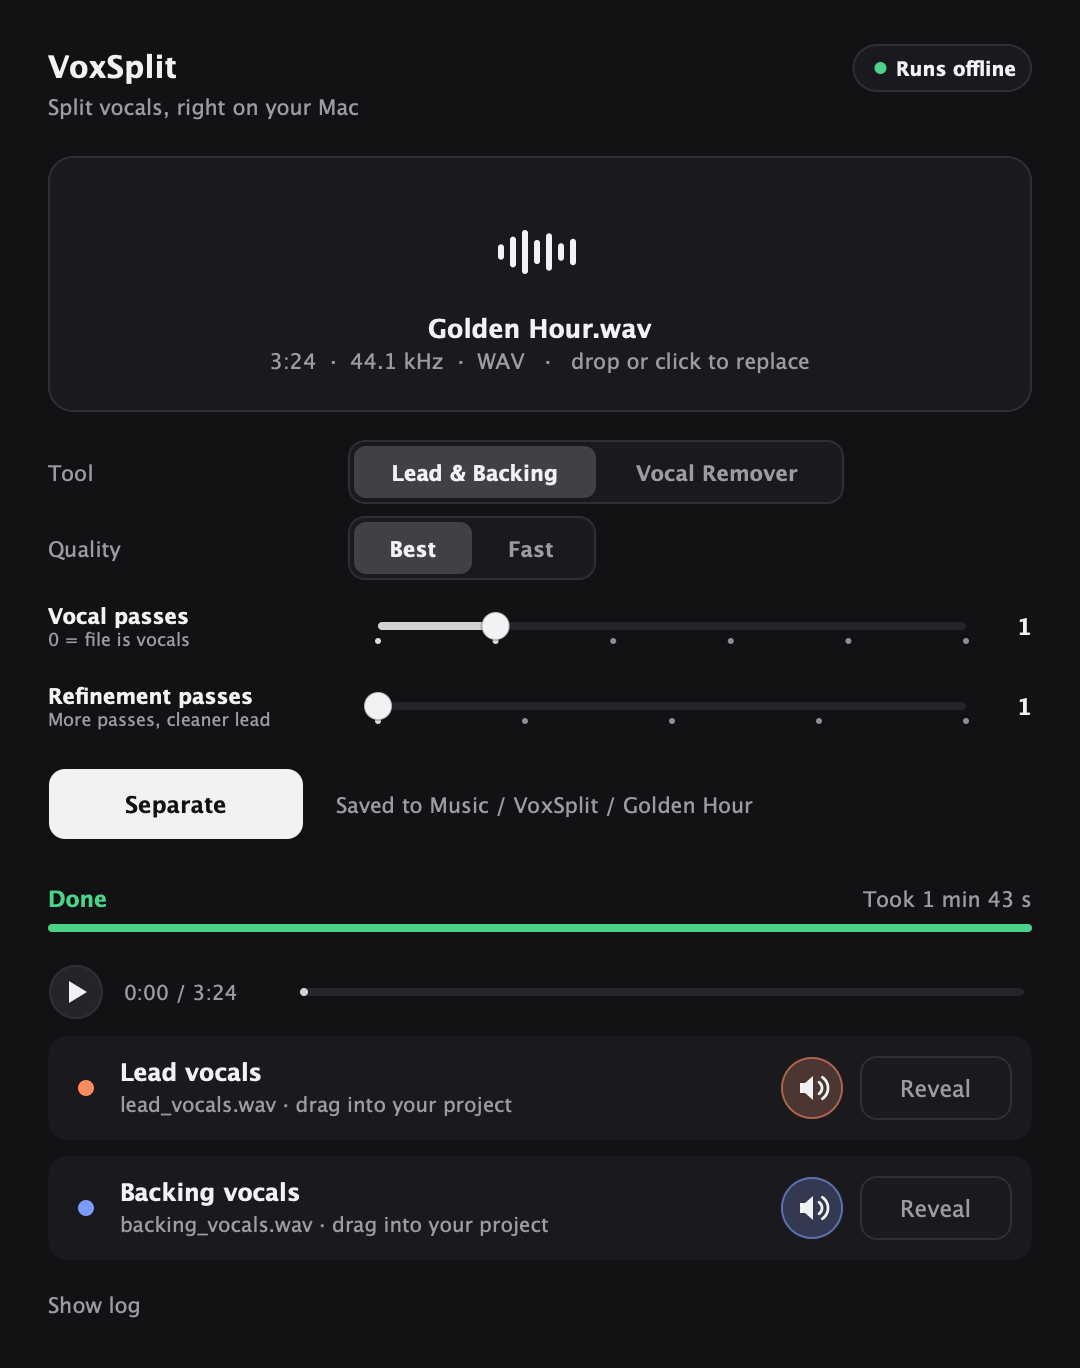
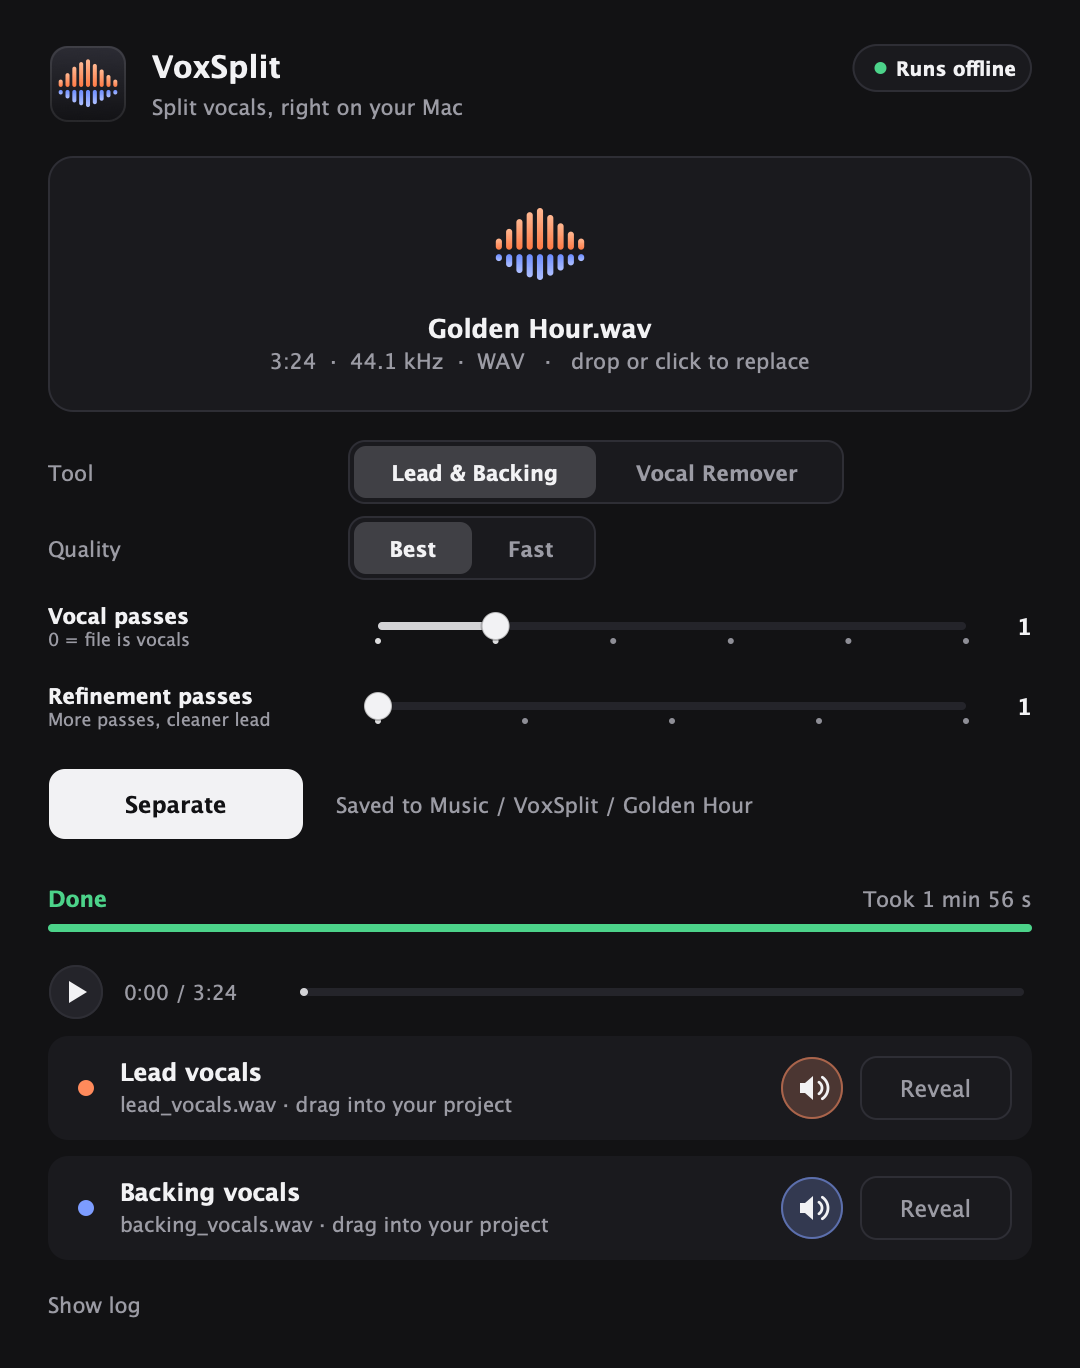
feat(site): move to voxsplit.jeffrey.build; old host redirects; 0.1.3 (ai-agents-bgp.28)
- Worker custom domain voxsplit.jeffrey.build (jeffrey.build is on Cloudflare
  now). voxsplit.triplejmusic.art stays attached only to 301 every path to the
  same path on the new host, so copied curl commands keep working; the Worker
  now runs first on every path for that.
- install.sh --cli finds the engine in the core part (fixes 'the package is
  missing the engine' on 0.1.1-0.1.2); uninstall also clears user plugins.
- New product shots and share image with the logo header. Domain updated in
  the app/plugin 'not installed' messages, README, installer and release.sh.

Changed region(s): [[0.0306, 0.0307, 0.4278, 0.0921], [0.4583, 0.1535, 0.55, 0.2149], [0.9167, 0.6447, 0.9472, 0.6754]]

diff --git a/site/public/index.html b/site/public/index.html
@@ -5,17 +5,17 @@
   <meta name="viewport" content="width=device-width, initial-scale=1">
   <title>VoxSplit · Grab the lead, keep the harmonies</title>
   <meta name="description" content="VoxSplit pulls the lead vocal and the backing vocals out of any song, so you can flip hooks, build bootlegs and make mashups that blend. Free for Mac, works in FL Studio, runs offline.">
-  <link rel="canonical" href="https://voxsplit.triplejmusic.art/">
+  <link rel="canonical" href="https://voxsplit.jeffrey.build/">
   <meta name="theme-color" content="#0e0e11">
   <meta name="color-scheme" content="dark">
   <link rel="icon" href="/mark.svg" type="image/svg+xml">
   <link rel="icon" href="/favicon-32.png" sizes="32x32" type="image/png">
   <link rel="apple-touch-icon" href="/apple-touch-icon.png">
   <meta property="og:type" content="website">
-  <meta property="og:url" content="https://voxsplit.triplejmusic.art/">
+  <meta property="og:url" content="https://voxsplit.jeffrey.build/">
   <meta property="og:title" content="VoxSplit · Grab the lead, keep the harmonies">
   <meta property="og:description" content="Split any song's lead vocal from its backing vocals. Free for Mac, works in FL Studio, runs offline.">
-  <meta property="og:image" content="https://voxsplit.triplejmusic.art/og.png">
+  <meta property="og:image" content="https://voxsplit.jeffrey.build/og.png">
   <meta property="og:image:width" content="1200">
   <meta property="og:image:height" content="630">
   <meta name="twitter:card" content="summary_large_image">
@@ -27,8 +27,8 @@
     "description": "Splits a song's lead vocal from its backing vocals, or the vocals from the instrumental, on your Mac.",
     "applicationCategory": "MultimediaApplication",
     "operatingSystem": "macOS 14 or later (Apple silicon)",
-    "softwareVersion": "0.1.2",
-    "downloadUrl": "https://voxsplit.triplejmusic.art/download/latest",
+    "softwareVersion": "0.1.3",
+    "downloadUrl": "https://voxsplit.jeffrey.build/download/latest",
     "offers": { "@type": "Offer", "price": "0", "priceCurrency": "USD" },
     "author": { "@type": "Person", "name": "Triple J", "url": "https://triplejmusic.art" }
   }
@@ -63,7 +63,7 @@
         <h1 class="enter">Grab the lead.<br><span class="grad">Keep the harmonies.</span></h1>
         <p class="lede enter">VoxSplit pulls the lead vocal and the backing vocals out of any song, so you can flip hooks, build bootlegs and make mashups that actually blend. It all happens on your Mac, so your tracks never leave it.</p>
         <div class="cta enter">
-          <a class="button primary big" href="/download/VoxSplit-0.1.2.pkg" data-release-href>
+          <a class="button primary big" href="/download/VoxSplit-0.1.3.pkg" data-release-href>
             <svg viewBox="0 0 20 20" width="20" height="20" aria-hidden="true"><path d="M10 3v9m0 0l-3.5-3.5M10 12l3.5-3.5M4 15.5h12" fill="none" stroke="currentColor" stroke-width="2" stroke-linecap="round" stroke-linejoin="round"/></svg>
             Download free
           </a>
@@ -153,9 +153,9 @@
       <div class="get-grid">
         <article class="card download-card">
           <h3>Download the installer</h3>
-          <a class="button primary big" href="/download/VoxSplit-0.1.2.pkg" data-release-href>
+          <a class="button primary big" href="/download/VoxSplit-0.1.3.pkg" data-release-href>
             <svg viewBox="0 0 20 20" width="20" height="20" aria-hidden="true"><path d="M10 3v9m0 0l-3.5-3.5M10 12l3.5-3.5M4 15.5h12" fill="none" stroke="currentColor" stroke-width="2" stroke-linecap="round" stroke-linejoin="round"/></svg>
-            Download VoxSplit <span class="dim" data-release="version">0.1.2</span>
+            Download VoxSplit <span class="dim" data-release="version">0.1.3</span>
           </a>
           <ol class="steps">
             <li>Open the download. The first time, macOS asks whether you trust VoxSplit: open <b>System Settings → Privacy &amp; Security</b> and click <b>Open Anyway</b>.</li>
@@ -169,13 +169,13 @@
           <p class="label">Everything, FL Studio plugin included (asks for your password)</p>
           <div class="command" data-copy-root>
             <span class="prompt" aria-hidden="true">$</span>
-            <code data-copy-text>curl -fsSL https://voxsplit.triplejmusic.art/install.sh | bash</code>
+            <code data-copy-text>curl -fsSL https://voxsplit.jeffrey.build/install.sh | bash</code>
             <button class="copy" type="button" aria-label="Copy"><span class="copy-icons" aria-hidden="true"><svg class="i-copy" viewBox="0 0 16 16" width="15" height="15"><rect x="5" y="5" width="9" height="9" rx="2" fill="none" stroke="currentColor" stroke-width="1.5"/><path d="M11 5V3.5A1.5 1.5 0 009.5 2h-6A1.5 1.5 0 002 3.5v6A1.5 1.5 0 003.5 11H5" fill="none" stroke="currentColor" stroke-width="1.5"/></svg><svg class="i-check" viewBox="0 0 16 16" width="15" height="15"><path d="M3 8.5l3.2 3L13 4.5" fill="none" stroke="currentColor" stroke-width="1.8" stroke-linecap="round" stroke-linejoin="round"/></svg></span></button>
           </div>
           <p class="label">Just the Terminal command (no password)</p>
           <div class="command" data-copy-root>
             <span class="prompt" aria-hidden="true">$</span>
-            <code data-copy-text>curl -fsSL https://voxsplit.triplejmusic.art/install.sh | bash -s -- --cli</code>
+            <code data-copy-text>curl -fsSL https://voxsplit.jeffrey.build/install.sh | bash -s -- --cli</code>
             <button class="copy" type="button" aria-label="Copy"><span class="copy-icons" aria-hidden="true"><svg class="i-copy" viewBox="0 0 16 16" width="15" height="15"><rect x="5" y="5" width="9" height="9" rx="2" fill="none" stroke="currentColor" stroke-width="1.5"/><path d="M11 5V3.5A1.5 1.5 0 009.5 2h-6A1.5 1.5 0 002 3.5v6A1.5 1.5 0 003.5 11H5" fill="none" stroke="currentColor" stroke-width="1.5"/></svg><svg class="i-check" viewBox="0 0 16 16" width="15" height="15"><path d="M3 8.5l3.2 3L13 4.5" fill="none" stroke="currentColor" stroke-width="1.8" stroke-linecap="round" stroke-linejoin="round"/></svg></span></button>
           </div>
         </article>
@@ -216,7 +216,7 @@
         <summary>How do I uninstall it?</summary>
         <p>Paste this into Terminal. The songs you split stay in your Music folder.</p>
         <div class="command small" data-copy-root>
-          <code data-copy-text>curl -fsSL https://voxsplit.triplejmusic.art/install.sh | bash -s -- --uninstall</code>
+          <code data-copy-text>curl -fsSL https://voxsplit.jeffrey.build/install.sh | bash -s -- --uninstall</code>
           <button class="copy" type="button" aria-label="Copy the uninstall command"><span class="copy-icons" aria-hidden="true"><svg class="i-copy" viewBox="0 0 16 16" width="15" height="15"><rect x="5" y="5" width="9" height="9" rx="2" fill="none" stroke="currentColor" stroke-width="1.5"/><path d="M11 5V3.5A1.5 1.5 0 009.5 2h-6A1.5 1.5 0 002 3.5v6A1.5 1.5 0 003.5 11H5" fill="none" stroke="currentColor" stroke-width="1.5"/></svg><svg class="i-check" viewBox="0 0 16 16" width="15" height="15"><path d="M3 8.5l3.2 3L13 4.5" fill="none" stroke="currentColor" stroke-width="1.8" stroke-linecap="round" stroke-linejoin="round"/></svg></span></button>
         </div>
       </details>
@@ -224,7 +224,7 @@
   </main>
 
   <footer class="footer">
-    <a class="brand small" href="/"><img src="/mark.svg" width="22" height="22" alt=""><span>VoxSplit <span data-release="version">0.1.2</span></span></a>
+    <a class="brand small" href="/"><img src="/mark.svg" width="22" height="22" alt=""><span>VoxSplit <span data-release="version">0.1.3</span></span></a>
     <p>Made by <a href="https://triplejmusic.art">Triple J</a> · <a href="https://github.com/BadMask121/voxsplit">GitHub</a> · <a href="/download/latest.sha256">Checksum</a></p>
   </footer>
 

diff --git a/site/test/worker.test.js b/site/test/worker.test.js
@@ -2,16 +2,16 @@ import assert from "node:assert/strict";
 import { readFile } from "node:fs/promises";
 import { test } from "node:test";
 
-import { fillScript, megabytes, pkgPath, publicOrigin, rangeOf } from "../src/worker.js";
+import { fillScript, megabytes, movedTo, pkgPath, publicOrigin, rangeOf } from "../src/worker.js";
 
 const release = { version: "1.2.3", file: "VoxSplit-1.2.3.pkg", sha256: "ab".repeat(32), bytes: 320_955_082, date: "2026-10-28" };
 
 test("install script gets the release filled in", async () => {
   const template = await readFile(new URL("../public/install.template.sh", import.meta.url), "utf8");
-  const script = fillScript(template, "https://voxsplit.triplejmusic.art", release);
+  const script = fillScript(template, "https://voxsplit.jeffrey.build", release);
   assert.ok(!script.includes("__"), "no placeholders left");
   assert.match(script, /local version="1\.2\.3"/);
-  assert.match(script, /local url="https:\/\/voxsplit\.triplejmusic\.art\/download\/VoxSplit-1\.2\.3\.pkg"/);
+  assert.match(script, /local url="https:\/\/voxsplit\.jeffrey\.build\/download\/VoxSplit-1\.2\.3\.pkg"/);
   assert.match(script, new RegExp(`local sha256="${"ab".repeat(32)}"`));
   assert.match(script, /local size="321 MB"/);
 });
@@ -29,7 +29,13 @@ test("R2 ranges normalise to offset and length", () => {
 });
 
 test("download links are https outside local dev", () => {
-  assert.equal(publicOrigin(new URL("http://voxsplit.triplejmusic.art/install.sh")), "https://voxsplit.triplejmusic.art");
+  assert.equal(publicOrigin(new URL("http://voxsplit.jeffrey.build/install.sh")), "https://voxsplit.jeffrey.build");
   assert.equal(publicOrigin(new URL("http://localhost:8799/install.sh")), "http://localhost:8799");
 });
 
+
+test("the old host redirects to the same path on voxsplit.jeffrey.build", () => {
+  assert.equal(movedTo(new URL("https://voxsplit.triplejmusic.art/install.sh")), "https://voxsplit.jeffrey.build/install.sh");
+  assert.equal(movedTo(new URL("https://voxsplit.triplejmusic.art/download/latest?x=1")), "https://voxsplit.jeffrey.build/download/latest?x=1");
+  assert.equal(movedTo(new URL("https://voxsplit.jeffrey.build/")), null);
+});

diff --git a/site/src/worker.js b/site/src/worker.js
@@ -1,13 +1,27 @@
-// voxsplit.triplejmusic.art: fills the current release into the page and the
-// install script, and serves installers from R2 (with resumable range requests).
+// voxsplit.jeffrey.build: fills the current release into the page and the install
+// script, serves installers from R2 (with resumable range requests), and redirects
+// the site's first home, voxsplit.triplejmusic.art.
 import release from "../release.json" with { type: "json" };
 
 export const pkgPath = (r = release) => `/download/${r.file}`;
 export const megabytes = (bytes) => `${Math.round(bytes / 1_000_000)} MB`;
 
+/** The site moved here from voxsplit.triplejmusic.art, which now redirects. */
+export const HOME = "voxsplit.jeffrey.build";
+
+/** Old-host URLs go to the same path on the new host (curl -L follows it, so copied
+    install commands keep working). */
+export function movedTo(url) {
+  return url.hostname === "voxsplit.triplejmusic.art" ? `https://${HOME}${url.pathname}${url.search}` : null;
+}
+
 export default {
   async fetch(request, env) {
     const url = new URL(request.url);
+    const moved = movedTo(url);
+    if (moved) {
+      return Response.redirect(moved, 301);
+    }
     const { pathname } = url;
 
     if (pathname === "/download/latest") {

diff --git a/macos/Sources/VoxSplit/ProcessManager.swift b/macos/Sources/VoxSplit/ProcessManager.swift
@@ -161,7 +161,7 @@ final class ProcessManager {
     func start() {
         guard let input, !phase.isActive else { return }
         guard let location = EngineLocator.locate() else {
-            phase = .failed("VoxSplit's engine isn't installed. Reinstall VoxSplit from voxsplit.triplejmusic.art.")
+            phase = .failed("VoxSplit's engine isn't installed. Reinstall VoxSplit from voxsplit.jeffrey.build.")
             return
         }
 

diff --git a/plugin/Source/EngineLocator.cpp b/plugin/Source/EngineLocator.cpp
@@ -55,11 +55,11 @@ EngineLocation locateEngine()
             if (! c.modelsDir.getChildFile (juce::String (name) + ".onnx").existsAsFile()
                 || ! c.modelsDir.getChildFile (juce::String (name) + ".json").existsAsFile())
                 loc.problem = "VoxSplit's model files are missing from " + c.modelsDir.getFullPathName()
-                            + ". Reinstall VoxSplit from voxsplit.triplejmusic.art.";
+                            + ". Reinstall VoxSplit from voxsplit.jeffrey.build.";
         return loc;
     }
 
     EngineLocation missing;
-    missing.problem = "VoxSplit's engine isn't installed. Reinstall VoxSplit from voxsplit.triplejmusic.art.";
+    missing.problem = "VoxSplit's engine isn't installed. Reinstall VoxSplit from voxsplit.jeffrey.build.";
     return missing;
 }

diff --git a/README.md b/README.md
@@ -6,11 +6,11 @@ are thin frontends over one Rust engine that runs ONNX models on the Apple Neura
 Engine/GPU via CoreML. Nothing leaves your machine, and end users install nothing
 else: no Python, no runtimes.
 
-**Download:** https://voxsplit.triplejmusic.art (Apple silicon, macOS 14+), or from Terminal:
+**Download:** https://voxsplit.jeffrey.build (Apple silicon, macOS 14+), or from Terminal:
 
 ```bash
-curl -fsSL https://voxsplit.triplejmusic.art/install.sh | bash               # app + plugins + voxsplit command
-curl -fsSL https://voxsplit.triplejmusic.art/install.sh | bash -s -- --cli   # only the command, no password
+curl -fsSL https://voxsplit.jeffrey.build/install.sh | bash               # app + plugins + voxsplit command
+curl -fsSL https://voxsplit.jeffrey.build/install.sh | bash -s -- --cli   # only the command, no password
 ```
 
 ```
@@ -43,7 +43,7 @@ plugin/    JUCE 9 plugin (VST3, AU, Standalone): drop zone, Separate, preview, d
 macos/     SwiftUI app (SwiftPM): the same flow; VoxSplitKit holds the async Process() runner
 models/    ONNX weights (downloaded, gitignored) + committed sidecar JSON hyperparameters
 installer/ .pkg pieces: distribution.xml, welcome/conclusion pages, postinstall
-site/      voxsplit.triplejmusic.art: Cloudflare Worker + static page + install.sh; installers in R2
+site/      voxsplit.jeffrey.build: Cloudflare Worker + static page + install.sh; installers in R2
 assets/    the VoxSplit mark (icon.svg → macos/AppIcon.icns via scripts/make-icon.sh)
 scripts/   fetch-models, build-engine, build-plugin, build-app, build-pkg, release, embed, sign, test-all
 docs/      architecture, bundle layout, engine protocol, measured performance

diff --git a/site/README.md b/site/README.md
@@ -1,4 +1,4 @@
-# voxsplit.triplejmusic.art
+# voxsplit.jeffrey.build
 
 The download page, the install script and the installer downloads, as one
 Cloudflare Worker (`voxsplit-site`) on the `triplejmusic.art` zone.
